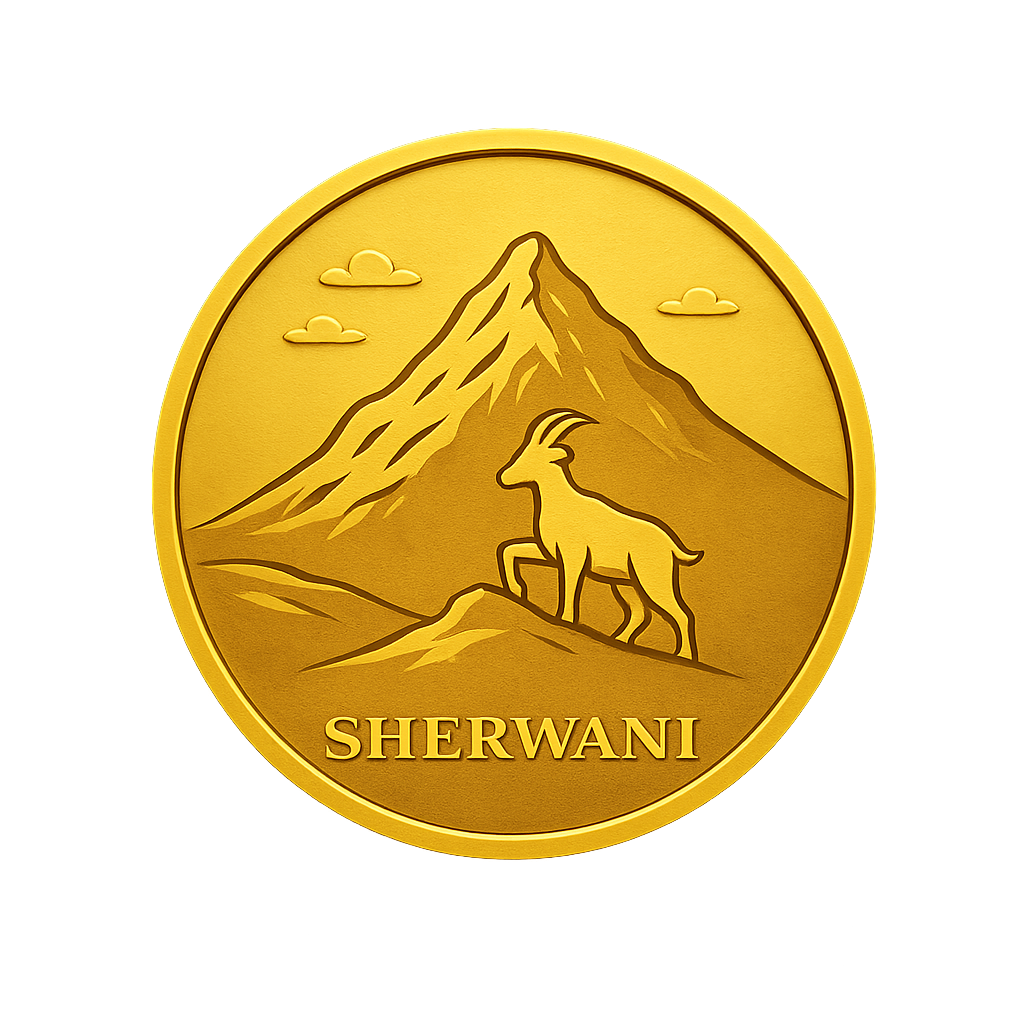
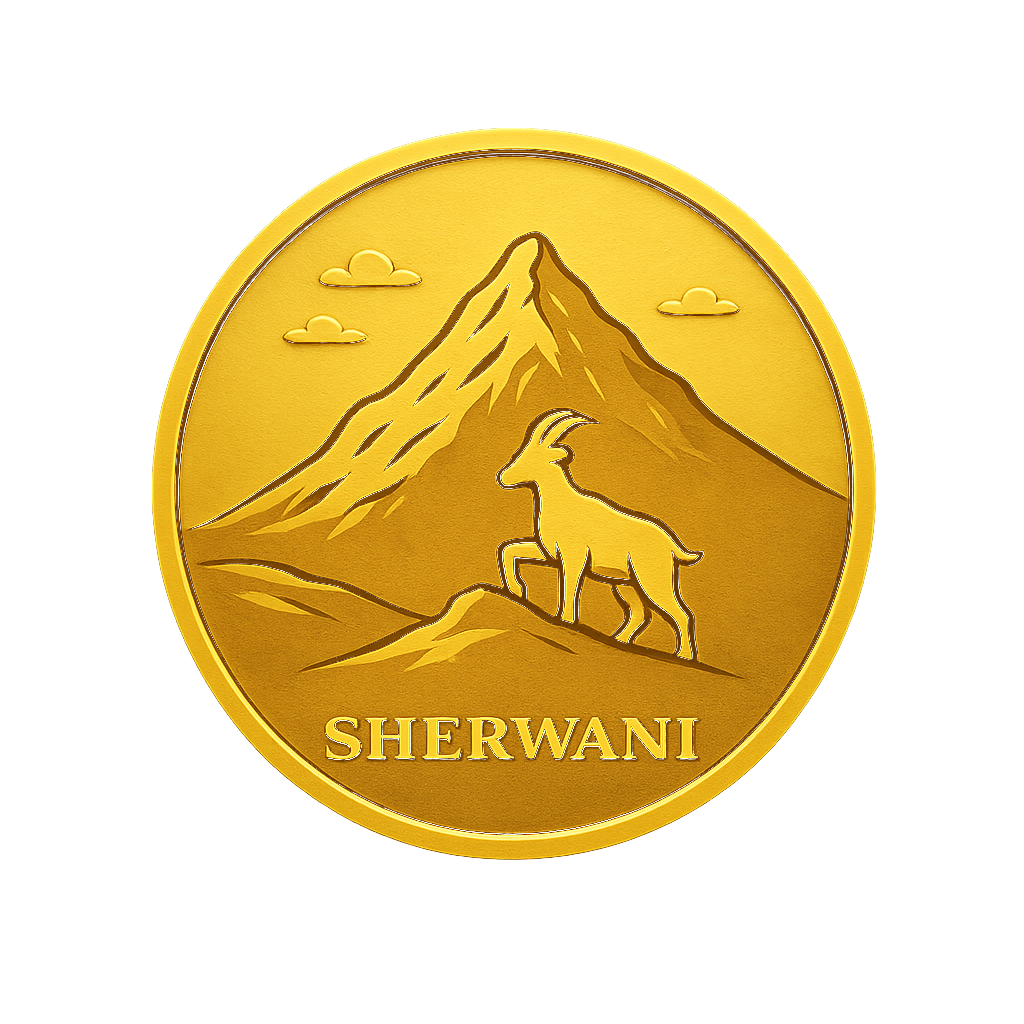
PNG versjon av myntene

diff --git a/index.html b/index.html
@@ -259,19 +259,20 @@ nav {
 .sell-focus-thumb {
   width: 92px;
   aspect-ratio: 1 / 1;
-  padding: 10px;
-  border: 0.5px solid #e4ddd0;
-  background: linear-gradient(180deg, #fffaf0 0%, #f4efe4 100%);
+  padding: 0;
+  border: 0;
+  background: transparent;
   display: flex;
   align-items: center;
   justify-content: center;
-  overflow: hidden;
+  overflow: visible;
 }
 .sell-focus-thumb img {
   width: 100%;
   height: 100%;
   object-fit: contain;
   display: block;
+  filter: drop-shadow(0 10px 18px rgba(28, 28, 26, 0.12));
 }
 .sell-focus-card p { font-size: 15px; color: #7a7060; line-height: 1.8; max-width: 52ch; }
 .sell-focus-links { display: flex; flex-wrap: wrap; gap: 10px; margin-top: 4px; }
